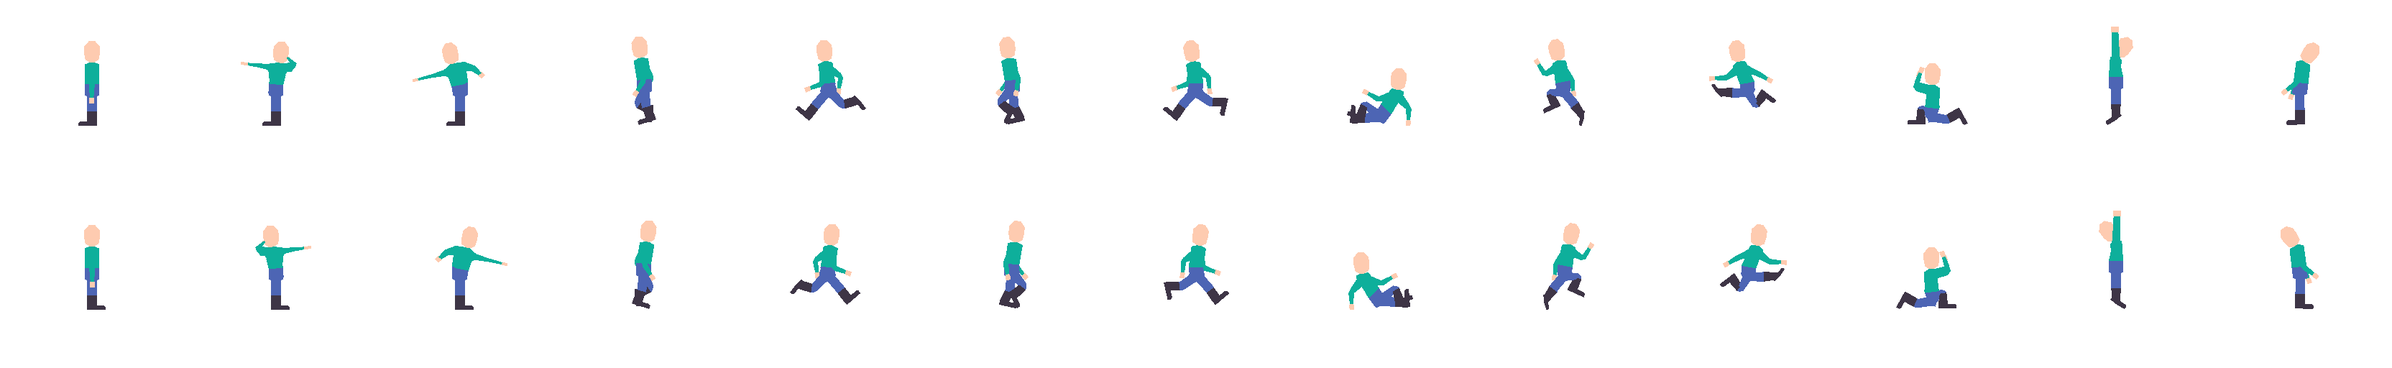
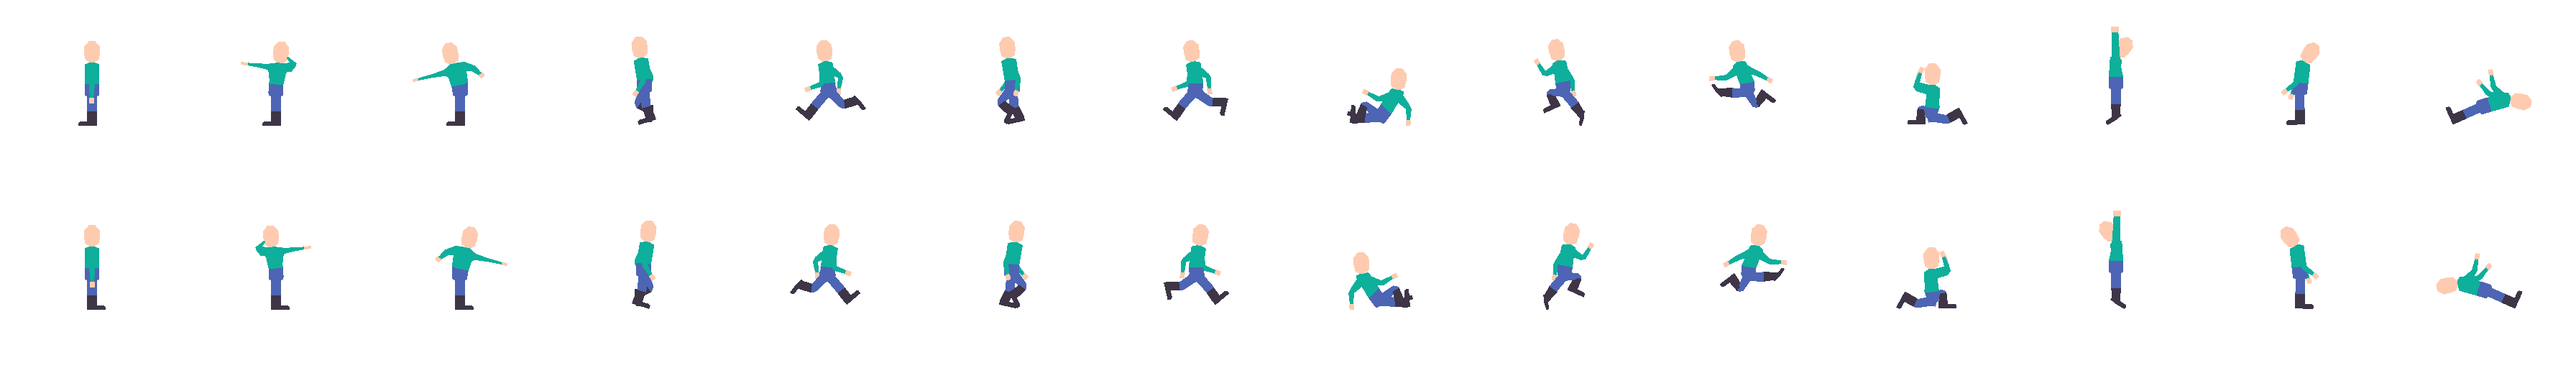
0.8.159

diff --git a/bleed-server/lib/src/games/game_fight2d.dart b/bleed-server/lib/src/games/game_fight2d.dart
@@ -115,15 +115,25 @@ class GameFight2D extends Game<GameFight2DPlayer> {
             if (otherCharacter == character) continue;
             final xDiff = character.x - otherCharacter.x;
             const range = 100.0;
-            const force = 5.0;
+            const force = 10.0;
             if (character.facingLeft){
               if (xDiff > 0 && xDiff < range) {
-                otherCharacter.hurt();
+                if (character.state == GameFight2DCharacterState.Running_Strike){
+                  otherCharacter.hurtAirborn();
+                  otherCharacter.accelerationY -= force;
+                } else {
+                  otherCharacter.hurt();
+                }
                 otherCharacter.accelerationX -= force;
               }
             } else {
               if (xDiff < range) {
-                otherCharacter.hurt();
+                if (character.state == GameFight2DCharacterState.Running_Strike){
+                  otherCharacter.hurtAirborn();
+                  otherCharacter.accelerationY -= force;
+                } else {
+                  otherCharacter.hurt();
+                }
                 otherCharacter.accelerationX += force;
               }
             }
@@ -137,7 +147,7 @@ class GameFight2D extends Game<GameFight2DPlayer> {
 
          if (!character.grounded) {
            character.grounded = true;
-           if (character.jumping || character.striking) {
+           if (character.jumping || character.striking || character.hurtingAirborn) {
              character.forceIdle();
            }
          }
@@ -194,8 +204,14 @@ class GameFight2DCharacter {
       state == GameFight2DCharacterState.Running;
 
   bool get hurting =>
-      state == GameFight2DCharacterState.Hurting     ||
-      nextState == GameFight2DCharacterState.Hurting ;
+      state == GameFight2DCharacterState.Hurting          ||
+      state == GameFight2DCharacterState.Hurting_Airborn  ||
+      nextState == GameFight2DCharacterState.Hurting      ||
+      nextState == GameFight2DCharacterState.Hurting_Airborn ;
+
+  bool get hurtingAirborn {
+    return state == GameFight2DCharacterState.Hurting_Airborn;
+  }
 
   bool get striking =>
       state == GameFight2DCharacterState.Striking ||
@@ -213,6 +229,10 @@ class GameFight2DCharacter {
 
   void hurt() {
      nextState = GameFight2DCharacterState.Hurting;
+  }
+
+  void hurtAirborn() {
+    nextState = GameFight2DCharacterState.Hurting_Airborn;
   }
 
   void strike() {

diff --git a/bleed-common/lib/src/enums/fight2d_response.dart b/bleed-common/lib/src/enums/fight2d_response.dart
@@ -21,6 +21,7 @@ class GameFight2DCharacterState {
    static const Falling          = 7;
    static const Crouching        = 8;
    static const Hurting          = 9;
+   static const Hurting_Airborn  = 10;
 
    static String getName(int value) =>
       const {
@@ -34,6 +35,7 @@ class GameFight2DCharacterState {
         Crouching: 'Crouching',
         Strike_Up: 'Strike_Up',
         Hurting: 'Hurting',
+        Hurting_Airborn: 'Hurting_Airborn',
       }[value] ??
       'unknown';
 }

diff --git a/bleed-server/lib/common/src/enums/fight2d_response.dart b/bleed-server/lib/common/src/enums/fight2d_response.dart
@@ -21,6 +21,7 @@ class GameFight2DCharacterState {
    static const Falling          = 7;
    static const Crouching        = 8;
    static const Hurting          = 9;
+   static const Hurting_Airborn  = 10;
 
    static String getName(int value) =>
       const {
@@ -34,6 +35,7 @@ class GameFight2DCharacterState {
         Crouching: 'Crouching',
         Strike_Up: 'Strike_Up',
         Hurting: 'Hurting',
+        Hurting_Airborn: 'Hurting_Airborn',
       }[value] ??
       'unknown';
 }

diff --git a/gamestream_flutter/lib/engine/games/game_fight2d.dart b/gamestream_flutter/lib/engine/games/game_fight2d.dart
@@ -74,6 +74,7 @@ class GameFight2D extends Game {
           GameFight2DCharacterState.Crouching => 10,
           GameFight2DCharacterState.Strike_Up => 11,
           GameFight2DCharacterState.Hurting => 12,
+          GameFight2DCharacterState.Hurting_Airborn => 13,
           _ => 0
       };
 

diff --git a/bleed-common/lib/src/version.dart b/bleed-common/lib/src/version.dart
@@ -1,4 +1,4 @@
-const version = '0.8.158';
+const version = '0.8.159';
 
 
 

diff --git a/bleed-server/lib/common/src/version.dart b/bleed-server/lib/common/src/version.dart
@@ -1,4 +1,4 @@
-const version = '0.8.158';
+const version = '0.8.159';
 
 
 
